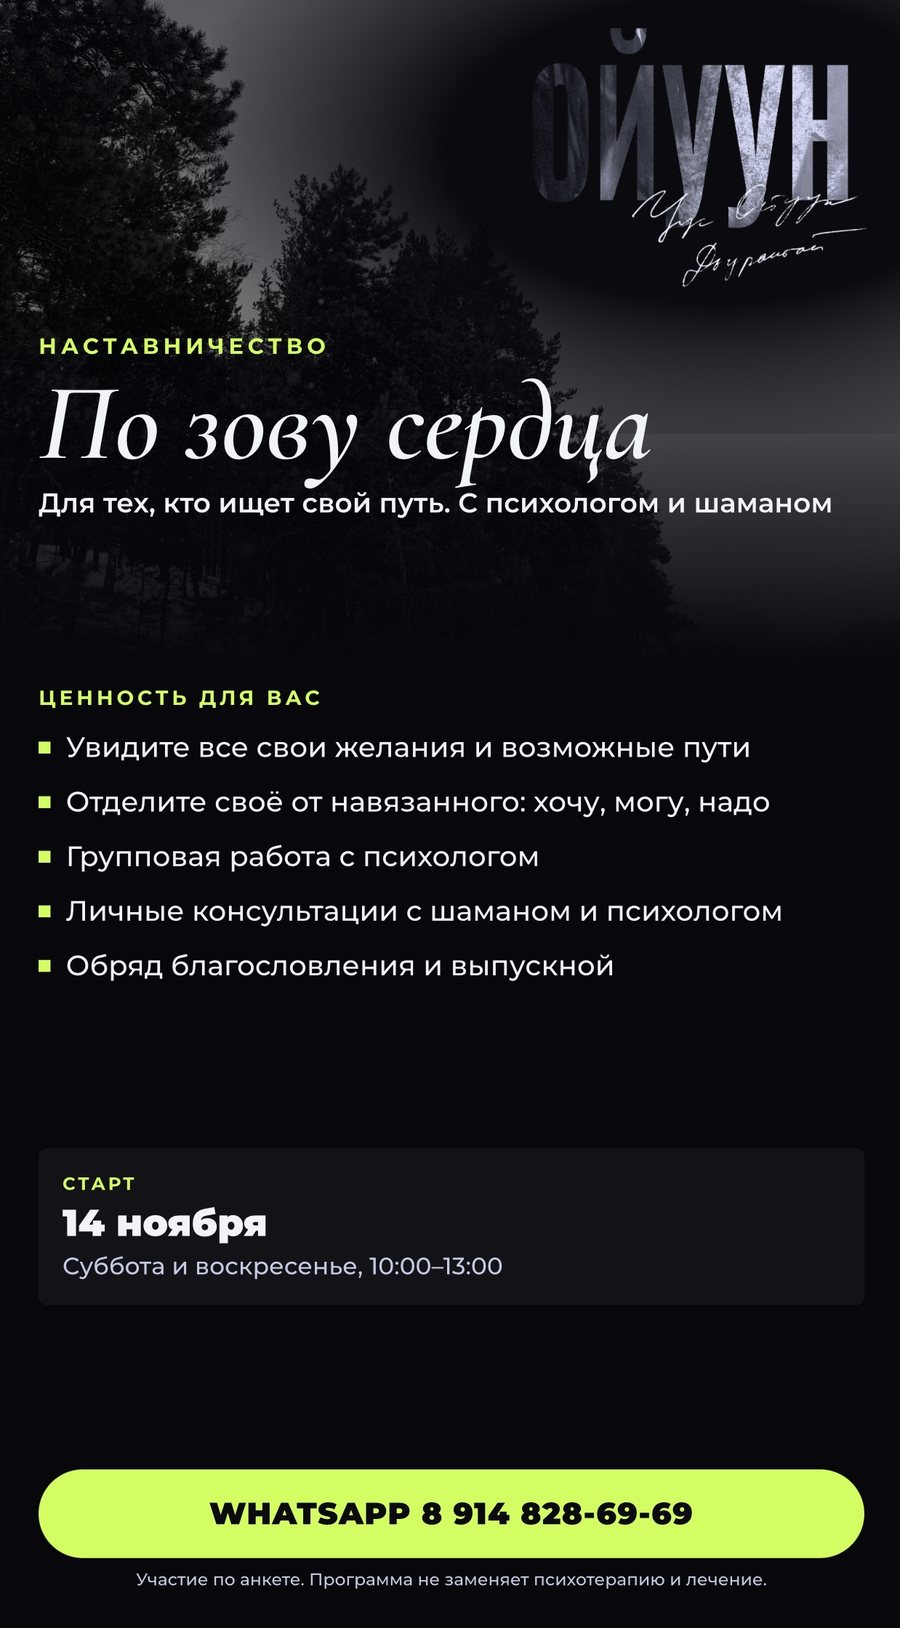
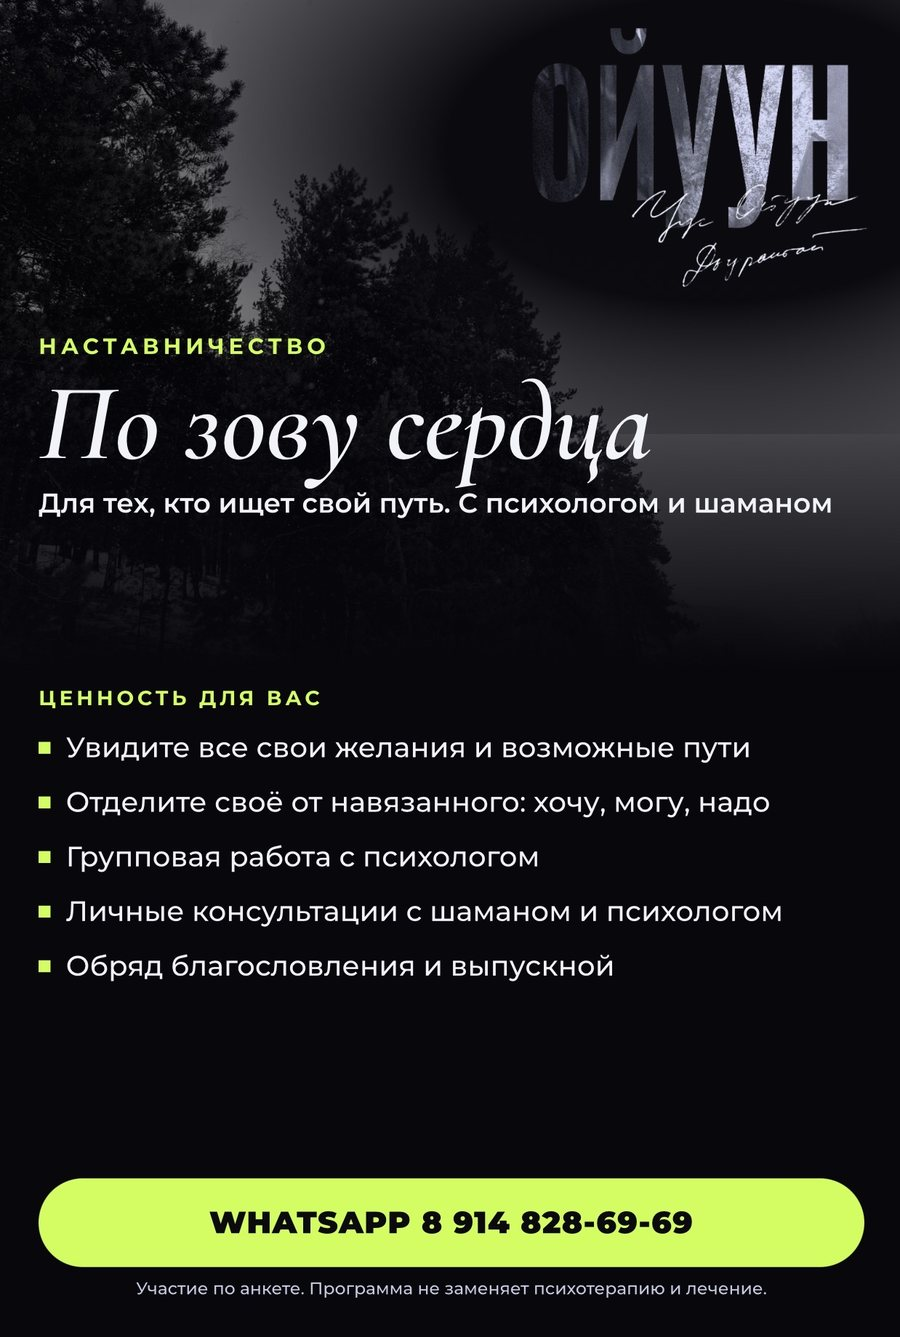
Moscow announcement 1–5 December; remove dates from mentorship posters
Claude-Session: https://claude.ai/code/session_0145Lq42NB88Uig5DTDKDWLu

diff --git a/index.html b/index.html
@@ -12,7 +12,7 @@
   <link rel="preconnect" href="https://fonts.googleapis.com">
   <link rel="preconnect" href="https://fonts.gstatic.com" crossorigin>
   <link href="https://fonts.googleapis.com/css2?family=Inter+Tight:ital,wght@0,300;0,400;0,500;0,700;0,800;1,400&family=Oswald:wght@600;700&display=swap" rel="stylesheet">
-  <link rel="stylesheet" href="style.css?v=202611061">
+  <link rel="stylesheet" href="style.css?v=202611141">
 </head>
 <body>
   <header class="site-header">
@@ -61,20 +61,20 @@
       <div class="container">
         <div class="feature feature-poster moscow" id="moskva">
           <figure class="poster">
-            <img src="img/moskva-dekabr.jpg" width="720" height="1280" loading="lazy" alt="Афиша: Уус Ойуун Дьурантай в Москве 8–11 декабря — обряды и личный приём">
+            <img src="img/moskva-1-5-dekabrya.jpg" width="720" height="1280" alt="Афиша: личный приём шамана Уус Ойуун Дьурантай в Москве 1–5 декабря">
           </figure>
           <div>
-            <p class="eyebrow">8–11 декабря · Москва</p>
-            <h2>Шаман в Москве</h2>
-            <p>Уус Ойуун Дьурантай, потомок великого шамана Никона — Эһээ Ньыыкан и удаганки Анны Павловой — Алыһардаах Ааны, приезжает в Москву. Обряды и личный приём.</p>
+            <p class="eyebrow">1–5 декабря · Москва</p>
+            <h2>Личный приём шамана в Москве</h2>
+            <p>Уус Ойуун Дьурантай — потомок великого шамана Никона — Эһээ Ньыыкан и могущественной удаган Анны Павловой — Алыһардаах Аана.</p>
             <ul class="list">
-              <li>Денежные обряды</li>
-              <li>Обряды очищения</li>
-              <li>Личные приёмы и консультации</li>
-              <li>Обряды под ваш запрос</li>
+              <li>Личная консультация — ваш путь, род, ответы на важные вопросы</li>
+              <li>Обряды очищения — снять тяжесть, вернуть силы и ясность</li>
+              <li>Денежный обряд — открыть дорогу достатку и делу</li>
+              <li>Обряд по вашему запросу — любовь, семья, здоровье близких, защита, важное решение</li>
             </ul>
-            <p>Мест в Москве немного — забронируйте своё время заранее. Цены на приёмы и обряды в Москве — при записи.</p>
-            <a class="btn btn-lime js-wa" data-msg="Здравствуйте! Хочу записаться на приём в Москве 8–11 декабря." href="https://wa.me/79148286969" target="_blank" rel="noopener">Записаться на приём в Москве</a>
+            <p>Мест на приём мало — запись заранее, время по согласованию.</p>
+            <a class="btn btn-lime js-wa" data-msg="Здравствуйте! Хочу записаться на приём в Москве 1–5 декабря." href="https://wa.me/79148286969" target="_blank" rel="noopener">Записаться на приём в Москве</a>
           </div>
         </div>
       </div>
@@ -117,7 +117,7 @@
       <div class="container services">
         <h2 class="section-title">Направления</h2>
         <ol class="service-list">
-          <li><a href="#priem" data-tab="priem"><sup>/1</sup><span class="service-name">Личный приём</span><span class="service-desc">Консультации в Якутске и онлайн · от 10 000 ₽ · 8–11 декабря приём в Москве</span></a></li>
+          <li><a href="#priem" data-tab="priem"><sup>/1</sup><span class="service-name">Личный приём</span><span class="service-desc">Консультации в Якутске и онлайн · от 10 000 ₽ · 1–5 декабря приём в Москве</span></a></li>
           <li><a href="#ochishchenie" data-tab="ochishchenie"><sup>/2</sup><span class="service-name">Очищение</span><span class="service-desc">Личный обряд очищения · от 20 000 ₽</span></a></li>
           <li><a href="#gruppovye" data-tab="gruppovye"><sup>/3</sup><span class="service-name">Групповые обряды</span><span class="service-desc">«На путь истинный» 4 ноября и другие групповые мероприятия</span></a></li>
           <li><a href="#nastavnichestvo" data-tab="nastavnichestvo"><sup>/4</sup><span class="service-name">Наставничество</span><span class="service-desc">«По зову сердца», «Зов рода», практикум для шаманов, индивидуальное наставничество</span></a></li>
@@ -168,8 +168,8 @@
             </ul>
           </div>
           <div class="cta-box">
-            <p class="cta-moscow"><b>8–11 декабря — приём в Москве.</b> Мест немного, цены в Москве уточняйте при записи.</p>
-            <a class="btn btn-lime js-wa" data-msg="Здравствуйте! Хочу записаться на приём в Москве 8–11 декабря." href="https://wa.me/79148286969" target="_blank" rel="noopener">Записаться в Москве</a>
+            <p class="cta-moscow"><b>1–5 декабря — приём в Москве.</b> Мест немного, цены в Москве уточняйте при записи.</p>
+            <a class="btn btn-lime js-wa" data-msg="Здравствуйте! Хочу записаться на приём в Москве 1–5 декабря." href="https://wa.me/79148286969" target="_blank" rel="noopener">Записаться в Москве</a>
             <hr class="cta-sep">
             <p class="cta-note" style="margin-top:0 !important">В Якутске и онлайн</p>
             <p class="price" style="font-size:2rem;font-weight:800;color:var(--frost);margin:0 0 4px">от 10 000 ₽</p>
@@ -281,13 +281,13 @@
         <p class="page-lead">«По зову сердца» · «Зов рода» · практикум для шаманов · индивидуальное наставничество</p>
         <div class="nast-grid">
           <a class="nast-card js-wa" id="soprovozhdenie" data-msg="Здравствуйте! Хочу записаться на наставничество «По зову сердца»." href="#kontakty">
-            <img src="img/po-zovu-serdtsa.jpg" width="900" height="1628" loading="lazy" alt="Наставничество «По зову сердца»: для тех, кто ищет свой путь, с психологом и шаманом. Старт 14 ноября, суббота и воскресенье, 10:00–13:00">
+            <img src="img/po-zovu-serdtsa.jpg" width="900" height="1337" loading="lazy" alt="Наставничество «По зову сердца»: для тех, кто ищет свой путь, с психологом и шаманом">
           </a>
           <a class="nast-card js-wa" id="zov-roda" data-msg="Здравствуйте! Хочу записаться на наставничество «Зов рода»." href="#kontakty">
-            <img src="img/zov-roda.jpg" width="900" height="1611" loading="lazy" alt="Наставничество «Зов рода»: для открывающихся людей, только теория с шаманом. Старт 11 ноября, 7 встреч по средам, 16:00–18:00">
+            <img src="img/zov-roda.jpg" width="900" height="1355" loading="lazy" alt="Наставничество «Зов рода»: для открывающихся людей, только теория с шаманом">
           </a>
           <a class="nast-card js-wa" id="praktikum" data-msg="Здравствуйте! Хочу записаться на практикум для шаманов «Секретные техники»." href="#kontakty">
-            <img src="img/praktikum-shamanov.jpg" width="900" height="1637" loading="lazy" alt="Практикум для шаманов «Секретные техники» от Уус Ойуун Дьурантай. Старт 28 ноября, 4 дня, 16:00–20:00">
+            <img src="img/praktikum-shamanov.jpg" width="900" height="1425" loading="lazy" alt="Практикум для шаманов «Секретные техники» от Уус Ойуун Дьурантай">
           </a>
           <a class="nast-card js-wa" id="lichnoe-nastavnichestvo" data-msg="Здравствуйте! Хочу на индивидуальное наставничество." href="#kontakty">
             <img src="img/individualnoe-nastavnichestvo.jpg" width="900" height="1634" loading="lazy" alt="Индивидуальное наставничество лично с шаманом: для тех, кто уже решился на путь шаманизма. Осталось 1 место">
@@ -538,17 +538,17 @@
         <a href="https://instagram.com/uus.oyuun" target="_blank" rel="noopener">@uus.oyuun</a>
       </div>
       <p class="footer-place">Потомственный якутский шаман · приём в г. Якутске и онлайн по всему миру</p>
-      <p class="footer-legal"><a href="privacy.html">Политика конфиденциальности</a> · версия 2.14</p>
+      <p class="footer-legal"><a href="privacy.html">Политика конфиденциальности</a> · версия 2.15</p>
     </div>
   </footer>
 
-  <script src="script.js?v=202611061"></script>
-  <script src="diag.js?v=202611061"></script>
+  <script src="script.js?v=202611141"></script>
+  <script src="diag.js?v=202611141"></script>
   <script src="vendor/astronomy-2.1.19.min.js"></script>
-  <script src="cities.js?v=202611061"></script>
-  <script src="astro-calc.js?v=202611061"></script>
-  <script src="astro.js?v=202611061"></script>
-  <script src="pdf.js?v=202611061"></script>
-  <script src="helper.js?v=202611061"></script>
+  <script src="cities.js?v=202611141"></script>
+  <script src="astro-calc.js?v=202611141"></script>
+  <script src="astro.js?v=202611141"></script>
+  <script src="pdf.js?v=202611141"></script>
+  <script src="helper.js?v=202611141"></script>
 </body>
 </html>
